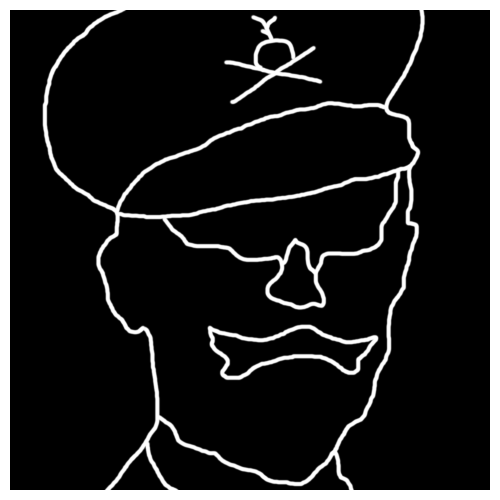
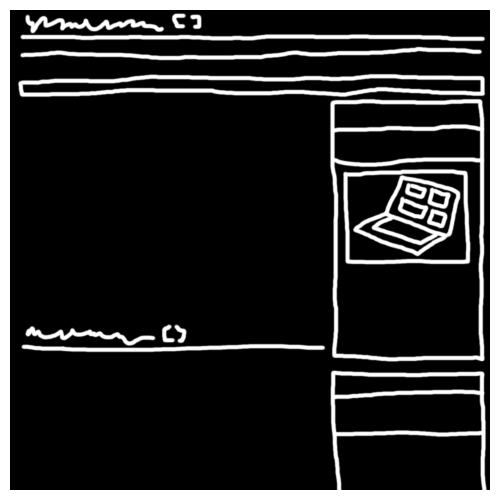
Various

diff --git a/JS/main.js b/JS/main.js
@@ -4,7 +4,8 @@ slides=[
             {text:`DATANOXIA`,size:80},
             {text:`(ˈdeɪtəˈnɒksiə)`,size:25},
             {text:`Hayden Qi`,size:40},
-            {text:`English 1102`,size:15},
+            //{text:`English 1102`,size:15},
+            {text:`English 1102`,size:20},
             {text:`The Information Age and the Anthropocene`,size:25},
         ],
         img:-1,
@@ -15,20 +16,23 @@ slides=[
             {text:`A Cyclical Struggle`,size:40},
             {text:`A Cyclical Struggle`,size:20},
             {text:`A Cyclical Struggle`,size:10},
-            {text:`Pictured: Laptop Showing Wikipedia Showing a Laptop Showing Wikipedia`,size:15},
+            //{text:`Pictured: Laptop Showing Wikipedia Showing a Laptop Showing Wikipedia`,size:15},
+            {text:`Pictured: Major General Enrico Pitassi Manella`,size:20},
             {text:`Is more information always a good thing?`,size:40},
             {text:`• A simple question`,size:25},
-            {text:`• Why did research this on the internet take me two months?`,size:25},
+            {text:`• Why did researching this on the internet take me two months?`,size:25},
             {text:`• The depth problem - even correct information can be harmful`,size:25},
             {text:`• The cognitive paradox of Wikipedia`,size:25},
             {text:`• The Ufficio Storico Esercito - a shaky foundation`,size:25},
         ],
         img:0,
+        imgTick:4,
         speed:false,
     },{
         text:[
             {text:`Definition`,size:80},
-            {text:`Pictured: Major General Enrico Pitassi Manella (the Tobruk garrison commander)`,size:15},
+            //{text:`Pictured: Major General Enrico Pitassi Manella (the Tobruk garrison commander)`,size:15},
+            {text:`Pictured: A Laptop Showing Wikipedia Showing a Laptop Showing Wikipedia`,size:20},
             {text:`(Noun)`,size:40},
             {text:`1. The diminishing quality of public information caused by the increase in its volume`,size:25},
             {text:`2. The difficulties caused by such a loss of information`,size:25},
@@ -38,11 +42,13 @@ slides=[
             {text:`• Anoxia: The lack of oxygen; suffocation`,size:25},
         ],
         img:1,
+        imgTick:1,
         speed:false,
     },{
         text:[
             {text:`A Cambrian Explosion`,size:80},
-            {text:`Pictured: Dickinsonia Costata`,size:15},
+            //{text:`Pictured: Dickinsonia Costata`,size:15},
+            {text:`Pictured: Dickinsonia Costata`,size:20},
             {text:`The other kind of history`,size:40},
             {text:`• Evolutionary radiation and extinction`,size:25},
             {text:`• An episodic pattern: another kind of cyclical struggle`,size:25},
@@ -50,36 +56,42 @@ slides=[
             {text:`• Will history repeat itself?`,size:25},
         ],
         img:2,
+        imgTick:1,
         speed:false,
     },{
         text:[
             {text:`Resolutions`,size:80},
-            {text:`Pictured: Tobruk defenses`,size:15},
+            //{text:`Pictured: Tobruk defenses`,size:15},
+            {text:`Pictured: Tobruk defenses`,size:20},
             {text:`• The end of the Tobruk tale`,size:25},
             {text:`• Thoughts on the seperatist solution`,size:25},
             {text:`• Personal, partial solutions`,size:25},
         ],
         img:3,
+        imgTick:1,
         speed:false,
     },{
         text:[
             {text:`Works Cited`,size:80},
-            {text:`Images: Original`,size:15},
+            {text:`Pictured: Fall of Tobruk, 1941`,size:20},
+            //{text:`Images: Original`,size:15},
+            {text:`Images: Original`,size:20},
             {text:
 `La prima offensiva britannica in Africa settentrionale (ottobre 1940 – febbraio 1941).
 Vol. I. Rome: Esercito. Corpo di stato maggiore. Ufficio storico. 1979. OCLC 68638762`
-            ,size:20},
+            ,size:18},
             {text:
 `He, T. (2017). Isotopic constraints on the palaeoenvironmental conditions during the cambrian radiation of animals (Order No. 11001456).
 Available from ProQuest Dissertations & Theses A&I; ProQuest One Academic. (2116938004).
 Retrieved from https://www.proquest.com/dissertations-theses/isotopic-constraints-on-palaeoenvironmental/docview/2116938004/se-2`
-            ,size:20},
+            ,size:18},
             {text:
 `Pilgrim, C., Guo, W., & Hills, T. T. (2021). Information foraging in the attention economy.
 St. Louis: Retrieved from https://www.proquest.com/working-papers/information-foraging-attention-economy/docview/2585952743/se-2`
-            ,size:20},
+            ,size:18},
         ],
-        img:-1,
+        img:4,
+        imgTick:1,
         speed:true,
     },
 ]
@@ -98,6 +110,7 @@ lift=0
 img={
     pos:0,
     slide:0,
+    fall:0,
 }
 class letter{
     constructor(text,size,slide,line,goalX,goalY){
@@ -186,6 +199,7 @@ function preload(){
         loadImage(`./Assets/2.png`),
         loadImage(`./Assets/3.png`),
         loadImage(`./Assets/4.png`),
+        loadImage(`./Assets/5.png`),
     ]
 }
 function setup(){
@@ -262,6 +276,9 @@ function mousePressed(){
 }
 function draw(){
     background(0)
+    if(slides[img.slide].img!=-1){
+        image(imgs[slides[img.slide].img],width+360*cos(img.pos),height/2+img.fall*img.fall*grav*0.5,360,360)
+    }
     letters.forEach(letter=>letter.display())
     letters.forEach(letter=>letter.update())
     for(let a=0,la=letters.length;a<la;a++){
@@ -287,16 +304,15 @@ function draw(){
             tick++
         }
     }
-    if(slides[img.slide].img!=-1){
-        image(imgs[slides[img.slide].img],width+360*cos(img.pos),height/2,360,360)
-    }
-    if(img.slide<slide&&slide<slides.length){
+    if(slide>=slides.length){
+        img.fall++
+    }else if(img.slide<slide&&slide<slides.length){
         if(img.pos>0){
             img.pos-=2
         }else{
             img.slide++
         }
-    }else if(img.pos<180){
+    }else if(img.pos<180&&cLine>=slides[img.slide].imgTick){
         img.pos+=2
     }
     /*if(tick>0){
